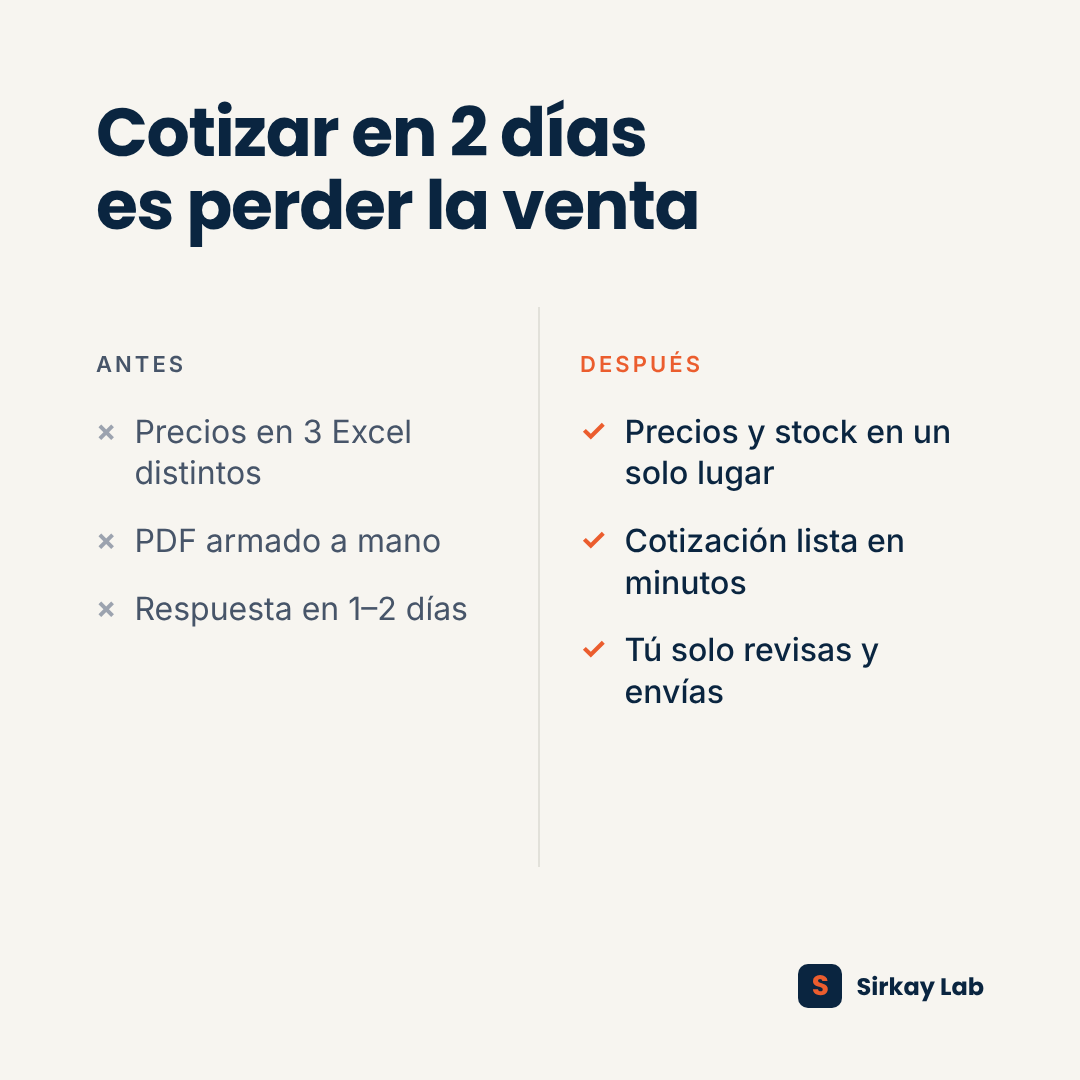
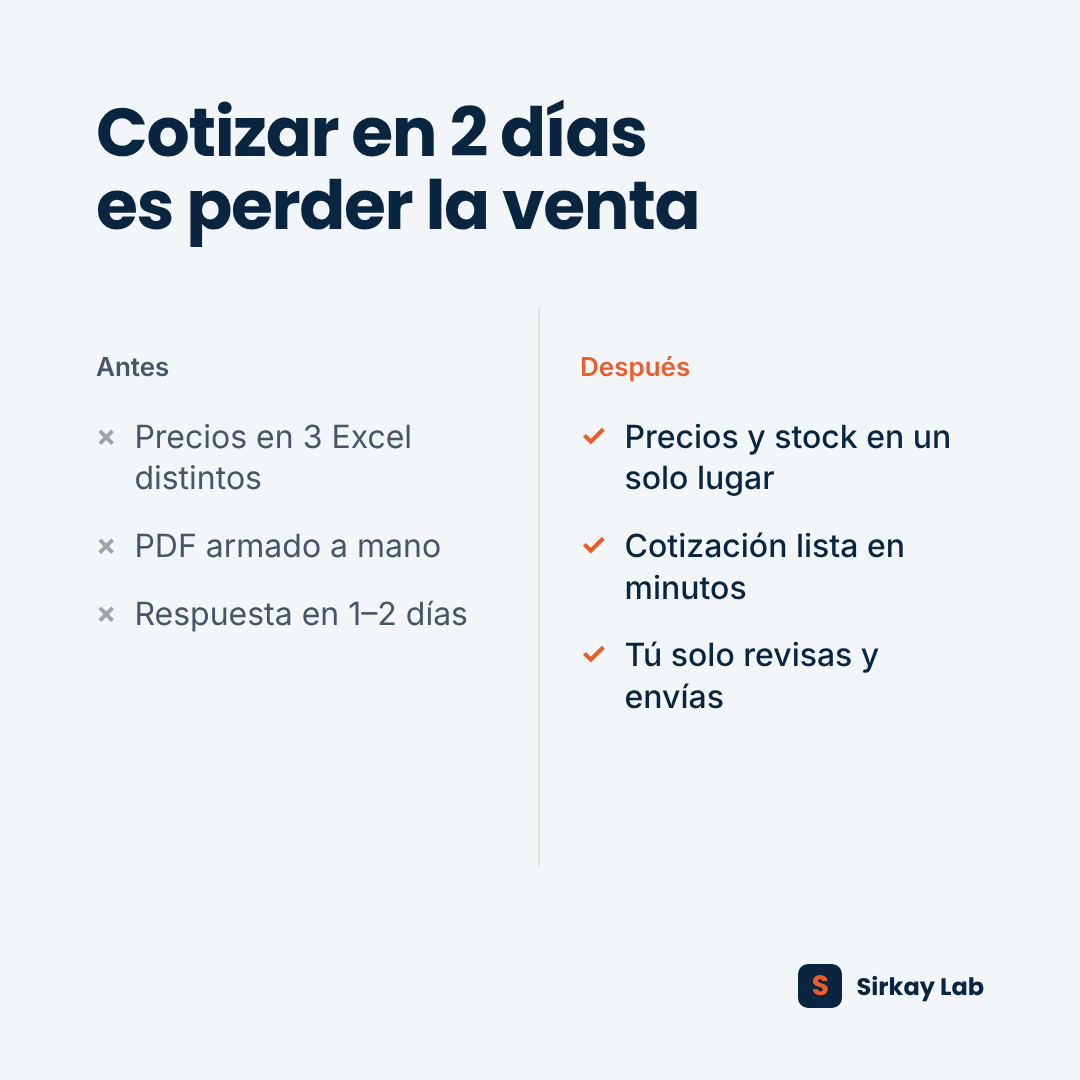
Plantillas: reglas anti-IA de frontend-design y Huashu Design
Claude-Session: https://claude.ai/code/session_01TGB2Bx3CiJKnJZKMztJrKn

diff --git a/visuals/render.py b/visuals/render.py
@@ -2,7 +2,9 @@
 """Sirkay Lab – generador de imágenes para LinkedIn (estilo editorial, sin aspecto IA).
 
 Sistema visual derivado de UI/UX Pro Max (estilo "Minimalism & Swiss", patrón
-"Trust & Authority", acento solo para lo destacado, sin degradados morados de IA).
+"Trust & Authority"), revisado con frontend-design (Anthropic) y Huashu Design:
+sin etiquetas en MAYÚSCULAS, sin fondo crema, sin degradados, sin emojis, sin
+íconos decorativos; numeración solo en secuencias reales; un solo elemento memorable.
 
 Uso:
     python3 render.py spec.json salida.png
@@ -15,7 +17,7 @@ import sys
 
 NAVY = "#0A2540"
 ORANGE = "#EB5D2E"
-CREAM = "#F7F5F0"
+CREAM = "#F3F6F9"  # gris azulado frío (evita el crema #F4F1EA típico de la IA)
 SLATE = "#475569"
 LINE = "#E2E1DA"
 
@@ -25,7 +27,7 @@ html, body {{ width:1080px; height:1080px; }}
 body {{ font-family:'Inter','Poppins',Arial,sans-serif; -webkit-font-smoothing:antialiased; }}
 .canvas {{ width:1080px; height:1080px; padding:96px; position:relative; display:flex; flex-direction:column; }}
 .h {{ font-family:'Poppins','Inter',Arial,sans-serif; font-weight:700; letter-spacing:-0.02em; text-wrap:balance; }}
-.kicker {{ font-size:22px; font-weight:600; letter-spacing:0.14em; text-transform:uppercase; }}
+.kicker {{ font-size:26px; font-weight:600; letter-spacing:0; }}
 .footer {{ position:absolute; left:96px; right:96px; bottom:72px; display:flex; justify-content:space-between; align-items:center; font-size:22px; }}
 .mark {{ display:flex; align-items:center; gap:14px; font-family:'Poppins',sans-serif; font-weight:600; font-size:24px; }}
 .logo {{ width:44px; height:44px; border-radius:10px; background:{NAVY}; color:{ORANGE}; display:flex; align-items:center; justify-content:center; font-family:'Poppins',sans-serif; font-weight:700; font-size:28px; }}

diff --git a/visuals/README.md b/visuals/README.md
@@ -1,7 +1,7 @@
 # Plantillas visuales Sirkay (LinkedIn)
 
 Sistema visual derivado de **UI/UX Pro Max** (nextlevelbuilder/ui-ux-pro-max-skill, MIT):
-estilo *Minimalism & Swiss*, patrón *Trust & Authority*, acento naranja solo para lo destacado,
+estilo *Minimalism & Swiss*, patrón *Trust & Authority*, revisado con frontend-design (Anthropic) y Huashu Design; acento naranja solo para lo destacado,
 sin degradados morados ni elementos de "IA".
 
 - Tipos: `dato`, `antes_despues`, `pasos`, `pregunta` (ver `ejemplos/*.json`).
